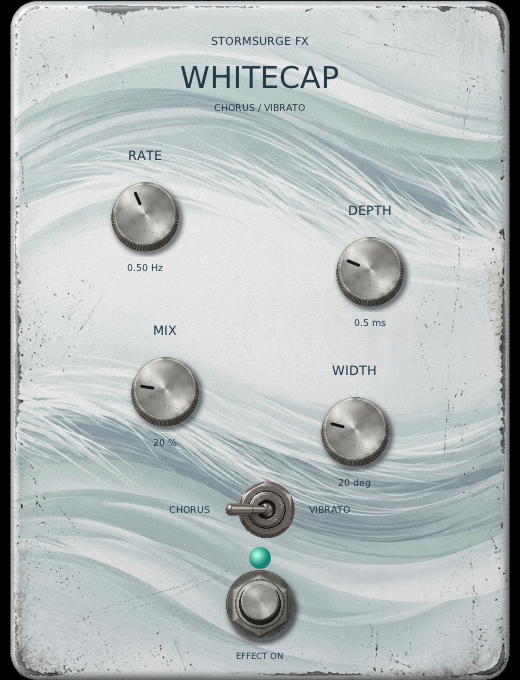
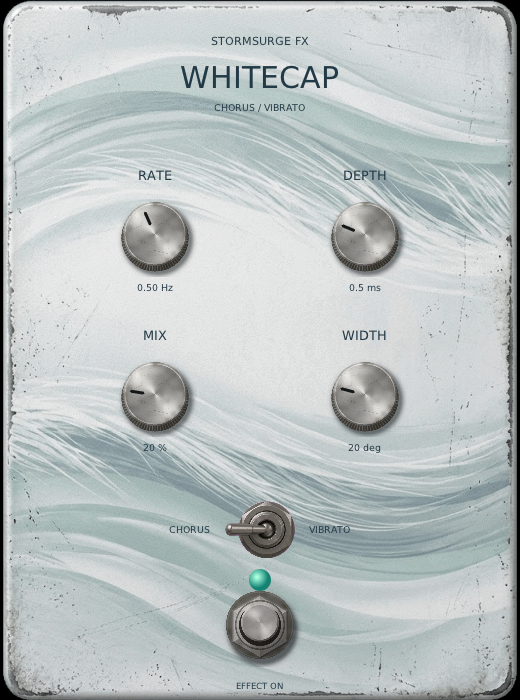
Tidy Whitecap editor layout

diff --git a/src/WhitecapEditor.cpp b/src/WhitecapEditor.cpp
@@ -25,7 +25,7 @@ class WhitecapUI final : public UI
     WhitecapUI() : UI(static_cast<uint32_t>(WhitecapUiWidth), static_cast<uint32_t>(WhitecapHeight))
     {
         loadSharedResources();
-        setGeometryConstraints(390, 510, true);
+        setGeometryConstraints(390, 525, true);
         enclosure = createImageFromMemory(whitecapEnclosurePng, sizeof(whitecapEnclosurePng), 0);
         knobMaterial = createImageFromMemory(previewKnobPng, sizeof(previewKnobPng), 0);
         footswitch = createImageFromMemory(previewFootswitchPng, sizeof(previewFootswitchPng), 0);
@@ -85,7 +85,7 @@ class WhitecapUI final : public UI
         return true;
     }
 
-    void resizeForTest() { setSize(390, 510); }
+    void resizeForTest() { setSize(390, 525); }
 #endif
 
   protected:
@@ -112,7 +112,7 @@ class WhitecapUI final : public UI
         drawModeSwitch();
         drawLed();
         drawImage(footswitch, 218, static_cast<float>(WhitecapFootY) - 42, 84, 84);
-        caption(260, 657, enabled() ? "EFFECT ON" : "BYPASSED", 10);
+        caption(260, 687, enabled() ? "EFFECT ON" : "BYPASSED", 10);
     }
 
     bool onMouse(const MouseEvent &event) override

diff --git a/src/WhitecapParameters.hpp b/src/WhitecapParameters.hpp
@@ -59,10 +59,10 @@ inline float denormalizedWhitecap(std::uint32_t index, float position) noexcept
 }
 
 inline constexpr double WhitecapUiWidth = 520;
-inline constexpr double WhitecapHeight = 680;
-inline constexpr double WhitecapModeY = 510;
-inline constexpr double WhitecapFootY = 604;
-inline constexpr double WhitecapLedY = 558;
+inline constexpr double WhitecapHeight = 700;
+inline constexpr double WhitecapModeY = 530;
+inline constexpr double WhitecapFootY = 625;
+inline constexpr double WhitecapLedY = 580;
 
 struct WhitecapKnobPosition {
     std::uint32_t parameter;
@@ -70,10 +70,10 @@ struct WhitecapKnobPosition {
     const char *label;
 };
 inline constexpr std::array<WhitecapKnobPosition, 4> whitecapKnobs{{
-    {WhitecapRate, 145, 215, "RATE"},
-    {WhitecapDepth, 370, 270, "DEPTH"},
-    {WhitecapMix, 165, 390, "MIX"},
-    {WhitecapWidth, 355, 430, "WIDTH"},
+    {WhitecapRate, 155, 235, "RATE"},
+    {WhitecapDepth, 365, 235, "DEPTH"},
+    {WhitecapMix, 155, 395, "MIX"},
+    {WhitecapWidth, 365, 395, "WIDTH"},
 }};
 
 struct WhitecapPoint {

diff --git a/tests/WhitecapGuiSmoke.cpp b/tests/WhitecapGuiSmoke.cpp
@@ -59,7 +59,7 @@ int main(int argc, char **argv)
         return 1;
     }
 
-    const uint expectedWidth = 390, expectedHeight = 510;
+    const uint expectedWidth = 390, expectedHeight = 525;
     if (minimumSize &&
         (editor.getWidth() != expectedWidth || editor.getHeight() != expectedHeight)) {
         std::fprintf(stderr, "FAIL: minimum-size Whitecap editor geometry\n");

diff --git a/docs/whitecap.md b/docs/whitecap.md
@@ -58,12 +58,13 @@ cmake --build --preset linux-debug --target Whitecap-vst3
 
 The bundle is at `build/linux-debug/bin/Whitecap.vst3`. The project does not install
 it. To audition it in Bitwig, place that bundle in a VST3 directory Bitwig scans and
-rescan plugins. The editor is resizable, with a 390x510 minimum size. The plugin has
+rescan plugins. The editor is resizable, with a 390x525 minimum size. The plugin has
 not been verified in Bitwig by the build or tests; the maintainer's private listening
 check is still outstanding.
 
-The following is a capture from the no-audio editor harness at its defaults, not a
-Bitwig screenshot or playback result:
+The following is a capture from the no-audio editor harness at its defaults. The
+four knobs are arranged in aligned rows, and the editor is slightly taller than
+the other pedals; this is not a Bitwig screenshot or playback result:
 
 ![Whitecap VST3 editor preview with asymmetrical Rate, Depth, Mix and Width controls](images/whitecap-vst3-editor.png)
 
